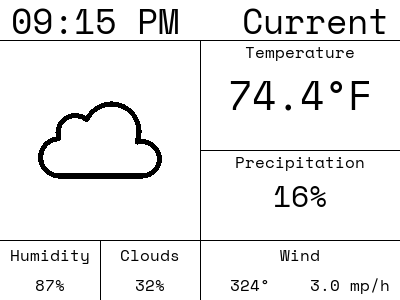
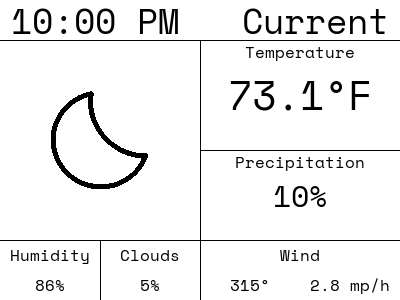
bug fixing

diff --git a/GeneratePNGs.py b/GeneratePNGs.py
@@ -137,7 +137,7 @@ def create_tomorrow_png( wd: WeatherData ) -> None:
     add_middle_anchor_text_to_image(f"{datetime.fromtimestamp( wd.tomorrow_sunrise() ).strftime('%I:%M %p')}", FOOTER_LEFT_X, FOOTER_DATA_Y, 16, draw)
 
     # Add sunset time
-    add_middle_anchor_text_to_image("Sunrise", FOOTER_CENTER_LEFT_X, FOOTER_TITLE_Y, 16, draw)
+    add_middle_anchor_text_to_image("Sunset", FOOTER_CENTER_LEFT_X, FOOTER_TITLE_Y, 16, draw)
     add_middle_anchor_text_to_image(f"{datetime.fromtimestamp( wd.tomorrow_sunset() ).strftime('%I:%M %p')}", FOOTER_CENTER_LEFT_X, FOOTER_DATA_Y, 16, draw)
 
     # Add date
@@ -192,7 +192,7 @@ def create_today_png( wd: WeatherData ) -> None:
     add_middle_anchor_text_to_image(f"{datetime.fromtimestamp( wd.today_sunrise() ).strftime('%I:%M %p')}", FOOTER_LEFT_X, FOOTER_DATA_Y, 16, draw)
 
     # Add sunset time
-    add_middle_anchor_text_to_image("Sunrise", FOOTER_CENTER_LEFT_X, FOOTER_TITLE_Y, 16, draw)
+    add_middle_anchor_text_to_image("Sunset", FOOTER_CENTER_LEFT_X, FOOTER_TITLE_Y, 16, draw)
     add_middle_anchor_text_to_image(f"{datetime.fromtimestamp( wd.today_sunset() ).strftime('%I:%M %p')}", FOOTER_CENTER_LEFT_X, FOOTER_DATA_Y, 16, draw)
 
     # Add date

diff --git a/PushImage.py b/PushImage.py
@@ -1,18 +1,19 @@
 import sys
 import PyLog
 from PIL import Image
-#from inky import InkyWHAT
+from inky import InkyWHAT
 
 if __name__ == '__main__':
-#    display = InkyWHAT("red")
-#    display.set_border(display.WHITE)
+    display = InkyWHAT("red")
+    display.set_border(display.WHITE)
 
     args = sys.argv
 
-<<<<<<< HEAD:PushImage.py
     if len(args) != 2:
         PyLog.error( "Invalid number of arguments!" )
         exit(1)
+
+    PyLog.log( f"Pusing {args[1]} to screen" )
 
     img_to_push = args[1]
     img = Image.open( img_to_push )
@@ -21,12 +22,3 @@ if __name__ == '__main__':
     img = img.convert('RGB').quantize(palette=pal_img)
     display.set_image(img)
     display.show()
-=======
-    img = generate_png( report )
-    img.show()
-#    pal_img = Image.new('P', (1,1))
-#    pal_img.putpalette((255,255,255,0,0,0,255,0,0)+(0,0,0)*252)
-#    img = img.convert('RGB').quantize(palette=pal_img)
-#    display.set_image(img)
-#    display.show()
->>>>>>> 0354d405fade6ed35332b14c167fd62de4956acb:main.py

diff --git a/Secrets.py b/Secrets.py
@@ -1,21 +1,10 @@
 import configparser
 
+_config = configparser.ConfigParser()
+_config.read('secrets.ini')
+
 def get_lat():
-    config = configparser.ConfigParser()
-    config.read('secrets.ini')
-    return config.get('Location', 'lat')
+    return _config.get('Location', 'lat')
 
 def get_lon():
-    config = configparser.ConfigParser()
-    config.read('secrets.ini')
-    return config.get('Location', 'lon')
-
-def get_key():
-    config = configparser.ConfigParser()
-    config.read('secrets.ini')
-    return config.get( 'Key', 'api_key' )
-
-def get_units():
-    config = configparser.ConfigParser()
-    config.read('secrets.ini')
-    return config.get( 'Settings', 'units' )
+    return _config.get('Location', 'lon')

diff --git a/FileManagement.py b/FileManagement.py
@@ -111,7 +111,7 @@ def get_forecast() -> str:
         PyLog.log( f"Loading forecast from {_filepath}" )
         json_str = load_forecast()
         json_data = json.loads( json_str )
-        if 'current' in json_str:
+        if 'current' in json_data:
             if 'time' in json_data['current']:
                 report_time = int(datetime.datetime.now().timestamp())
                 PyLog.log( f"Forecast is {int((report_time - int(json_data['current']['time'])) / 60)} minutes old" )

diff --git a/WeatherData.py b/WeatherData.py
@@ -84,7 +84,7 @@ class WeatherData:
     def tomorrow_low_temperature(self) -> float:
         if 'daily' in self.data:
             if 'temperature_2m_min' in self.data['daily']:
-                return self.data['daily']['temperature_2m_min'][0]
+                return self.data['daily']['temperature_2m_min'][1]
         return 0
 
     def tomorrow_low_temperature_units(self) -> str:
